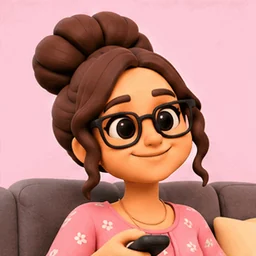
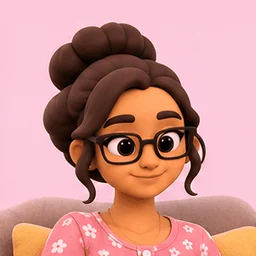
Kiru colour redo: home tv/phone/cook/sleep in kiru-v2 colours
Claude-Session: https://claude.ai/code/session_01M9MLSzTgGmRpDx4quWz9qx

diff --git a/design/gen/status.md b/design/gen/status.md
@@ -124,10 +124,10 @@ Generated in ChatGPT, checked frame by frame, converted to 256x256 animated WebP
 | kiru/out/birthday | done | 0 |  |
 | kiru/home/idle | done | 1 | colour redo Nov 19 (sprite sheet, kiru-v2 colours): pink floral nighty; blink frames 4-9; stable framing |
 | kiru/home/wave | done | 1 | colour redo Nov 19 (sprite sheet, kiru-v2 colours): same hand waves at the left edge (partly cut in frames 6-9); one blink |
-| kiru/home/tv | done | 0 |  |
-| kiru/home/phone | done | 0 |  |
-| kiru/home/cook | done | 0 |  |
-| kiru/home/sleep | done | 0 |  |
+| kiru/home/tv | done | 1 | colour redo Nov 19 (sprite sheet, kiru-v2 colours): sofa behind; ONE remote in the same hand (frames 2-7), lowered out of frame after; chuckle with eyes closed frames 7-9 |
+| kiru/home/phone | done | 1 | colour redo Nov 19 (sprite sheet, kiru-v2 colours): ONE phone in the same hand in every frame; thumb scroll and chuckle |
+| kiru/home/cook | done | 1 | colour redo Nov 19 (sprite sheet, kiru-v2 colours): ONE wooden spoon in the same hand at the bottom edge, pot below the frame, faint steam on the right |
+| kiru/home/sleep | done | 1 | colour redo Nov 19 (sprite sheet, kiru-v2 colours): asleep on a pillow with glasses on; closer framing than the standing poses (head partly at the left edge); round bubbles frames 4-11 |
 | kiru/home/laugh | done | 0 | Kiru v2 look; head tilts back with the laugh (up to 12 px); 4 px edge trim for a bottom strip |
 | kiru/work/idle | done | 1 | colour redo Nov 19 (sprite sheet, kiru-v2 colours): sprite-sheet render; aligned to frame 0; blink frames 5-9 |
 | kiru/work/wave | done | 1 | colour redo Nov 19 (sprite sheet, kiru-v2 colours): hand waves at the left edge and is partly cut there in frames 5-9; one blink |
@@ -192,12 +192,12 @@ Reference measurements (tools: /tmp/tools/colour.py; median Lab over sampled fra
 | kiru/gym/idle | pending |  |  | old: skin dE 14.6 hair dE 23.4 |
 | kiru/gym/wave | pending |  |  | old: skin dE 14.1 hair dE 22.3 |
 | kiru/gym/workout | pending |  |  | old: skin dE 13.8 hair dE 24.1 |
-| kiru/home/cook | pending |  |  | old: skin dE 8.9 hair dE 10.0 |
+| kiru/home/cook | done | 1.3 | 1.6 | ONE wooden spoon in the same hand at the bottom edge, pot below the frame, faint steam on the right |
 | kiru/home/idle | done | 6.2 | 3.6 | pink floral nighty; blink frames 4-9; stable framing |
 | kiru/home/laugh | pending |  |  | old: skin dE 10.2 hair dE 9.2 |
-| kiru/home/phone | pending |  |  | old: skin dE 11.5 hair dE 9.5 |
-| kiru/home/sleep | pending |  |  | old: skin dE 5.0 hair dE 12.3 |
-| kiru/home/tv | pending |  |  | old: skin dE 10.4 hair dE 8.9 |
+| kiru/home/phone | done | 2.9 | 0.9 | ONE phone in the same hand in every frame; thumb scroll and chuckle |
+| kiru/home/sleep | done | 1.8 | 3.2 | asleep on a pillow with glasses on; closer framing than the standing poses (head partly at the left edge); round bubbles frames 4-11 |
+| kiru/home/tv | done | 3.2 | 3.6 | sofa behind; ONE remote in the same hand (frames 2-7), lowered out of frame after; chuckle with eyes closed frames 7-9 |
 | kiru/home/wave | done | 7.3 | 5.2 | same hand waves at the left edge (partly cut in frames 6-9); one blink |
 | kiru/home2/idle | pending |  |  | old: skin dE 15.8 hair dE 22.1 |
 | kiru/home2/phone | pending |  |  | old: skin dE 15.5 hair dE 25.6 |
